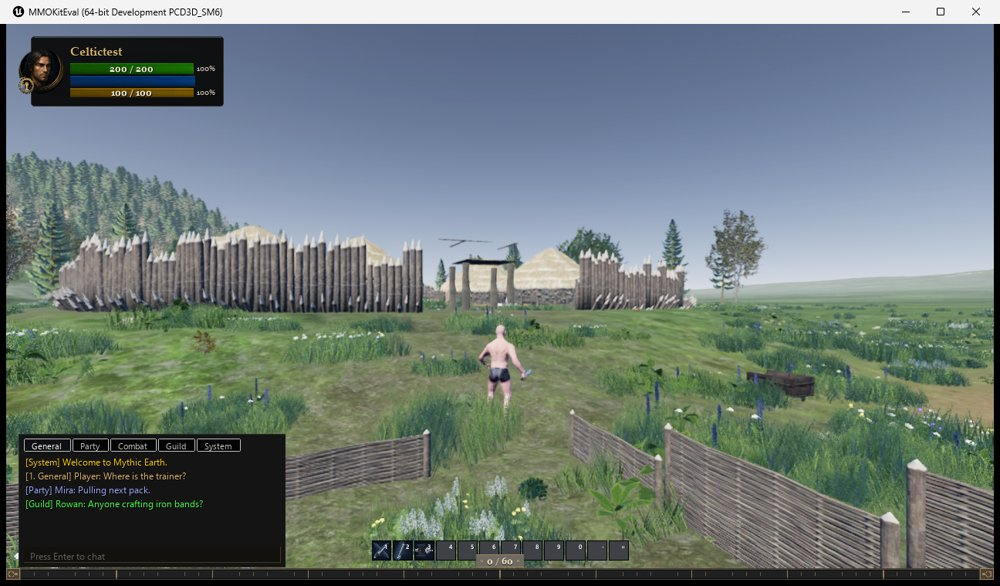
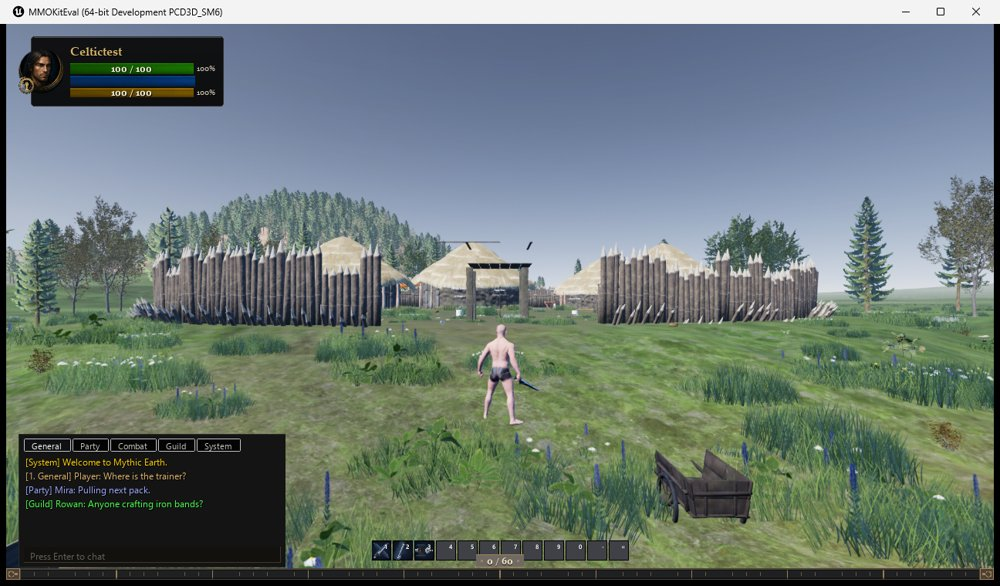
Night 4 report: the bonus pass, and the final hand-off capture
Grind camps now carry mobs (4 duplicated spawners across 3 camps), 16 farm props round the
Lissban fields, SK_Pig in the pen. Two items off the not-done list, which is now 9 long.
Recorded plainly: no plough, rake, scythe, basket or hay mesh exists in either pack, and the
first attempt's fuzzy name search stood a courtyard tower in a field before it was caught.

ingame_08_handoff_west_gate.jpg is the live client after the final restart: Celtictest on the
track outside the west gate, facing in.

diff --git a/design/progress/2026-09-15-night4.md b/design/progress/2026-09-15-night4.md
@@ -428,13 +428,42 @@ five-minute job with `t.MaxFPS 0` and worth doing before the next foliage pass.
 5. **The sub-canopy branches at 8–11 m** — 29 % of stems below Daniel's 12 m line.
 6. **No Norway Spruce.** The canopy is still one fir asset at four scale bands plus per-instance
    tint; real mesh variety waits on the pack.
-7. **Mob spawners were not moved into the grind glades.** The three grind camps are dressed and
-   empty; the existing spawners are where night 3 put them.
-8. **The mill below the lake outflow** (item 37) was not built.
-9. **The XP bar's gold fill is unproven** — the bar is correctly empty at 0 XP, so the masked fill
+7. **The mill below the lake outflow** (item 37) was not built.
+8. **The XP bar's gold fill is unproven** — the bar is correctly empty at 0 XP, so the masked fill
     has never been seen growing. Needs one kill.
-10. **The true fps headroom is unmeasured** — the profile caps at 30 and the cap was held, which
+9. **The true fps headroom is unmeasured** — the profile caps at 30 and the cap was held, which
     proves the budget is not blown but not how much room is left.
+
+---
+
+## BONUS PASS — two items pulled off the not-done list
+
+The report was finished and pushed at 21:15 with the game running; there were four and a half hours of the
+window left, so two named items came off the list. A second editor session, then the stack was
+brought back to exactly the hand-off state.
+
+**Roadmap 29 — the grind camps have mobs.** The three grind glades were dressed and empty. Moving
+a pack in from the uplands would have taken it out of its habitat band and broken night 3's
+habitat audit, so each camp gets **DUPLICATES** of the nearest spawner of its species instead —
+duplication is what carries `MobClass` and the `Stats` struct across, which Python cannot set
+directly (night 3's finding). **4 spawners across the 3 camps**, seated on the ground 9–18 m off
+each fire: `DRV2_GrindSpawn_grind_wolves_0/1`, `_grind_boar_0`, `_grind_deer_0`.
+
+**Walk item 8 — farm tools.** **16 props** round the Lissban field edges: two carts, a chopping
+block, two grain sacks, two transport sacks, two pots, two buckets, two hoes, a sickle, a wood
+fork and a smith's tool. `farm_tools.jpg` shows the grain sack, the chopping block and the pots
+at the field edge with the palisade behind.
+
+**Honest: five of the things Daniel listed do not exist in either pack.** No plough, no rake, no
+scythe, no basket, no hay pile in Roman & Celtic or Medieval Megapack — I checked every static
+mesh in both. The first attempt's fuzzy name search "found" a plough by matching `SM_Coutyard_Tower`
+on the letters "ard" and stood a stone tower in a field; that is removed, and the resolver now
+checks the asset class as well as the name.
+
+**Walk item 4 — the pen animal** is in: `SK_Pig` (a *skeletal* mesh, so a `SkeletalMeshActor`) at
+(−3514.6, −1056.3) inside `LB_PenFence_01`.
+
+Level after the bonus pass: **1,663,284 instances across 1,746 actors.**
 
 ---
 
@@ -443,10 +472,10 @@ five-minute job with `t.MaxFPS 0` and worth doing before the next foliage pass.
 - Editor **closed**. Build **Development, Succeeded**. Play stack **up** on
   `/Game/ThreeRealms/Maps/GN_DalRiata_v2`.
 - **Celtictest is standing on the track outside Lissban’s WEST gate, facing the gate**, at
-  `(−350471, −108618, 3921) uu` — 42 m from the village centre, outside the palisade, with the
-  field fence in the foreground. `ingame_08_handoff_west_gate.jpg` is that exact view.
-  The DB spawn was written to `(−350872, −108288, 4120) uu, yaw 67.5` while PersistenceServer was
-  stopped, so a relog puts him back on the same track.
+  `(−350872, −108288, 4120) uu, yaw 67.5` — outside the palisade on the cart track, with the
+  field fence in the foreground. `ingame_08_handoff_west_gate.jpg` is that exact view, shot from
+  the live client after the final restart. The DB spawn was written while PersistenceServer was
+  stopped, so a relog puts him back on the same spot.
 - Vendor packs untouched and uncommitted. Every material change is on a duplicate in
   `/Game/ThreeRealms/World/`; the pack's `M_Foliage_01` and `MI_SilverFir_*` are not edited.
 - `Tools/dalriata/n4/` `.f32` / `.npy` arrays and full-resolution `.png` captures are local only and
